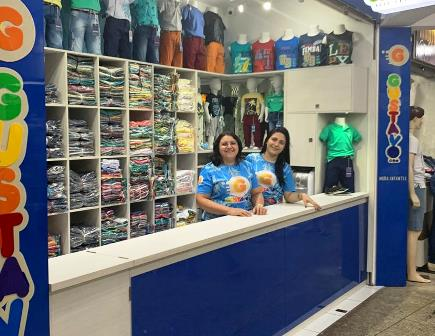
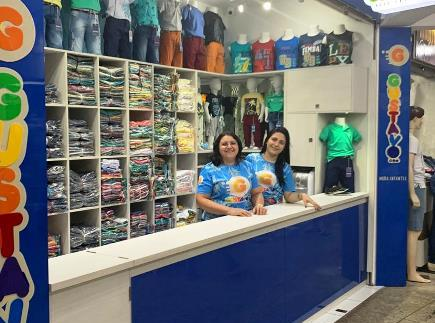
update img

diff --git a/index.html b/index.html
@@ -202,7 +202,7 @@
           <!--Second column-->
           <div class="col-lg-5 ml-auto col-md-12 mb-5 wow fadeIn" data-wow-delay="0.4s">
 
-          <div id="carouselExampleSlidesOnly" class="carousel slide" data-ride="carousel">
+          <div id="carouselExampleSlidesOnly" class="carousel slide carousel-fade" data-ride="carousel">
           <div class="carousel-inner">
           <div class="carousel-item active c-sobre">
           <img class="d-block w-100" src="img/sobre.jpg">

diff --git a/css/style.css b/css/style.css
@@ -197,18 +197,6 @@ header,
   }
 }
 
-@keyframes fade{
-  from{
-    opacity: 0.7;
-  }to{
-    opacity: 1.0;
-  }
-}
-
-.c-sobre{
-  animation: fade 0.5s ease-in;
-}
-
 #background-load{
   height:100%;
   width:100%;
